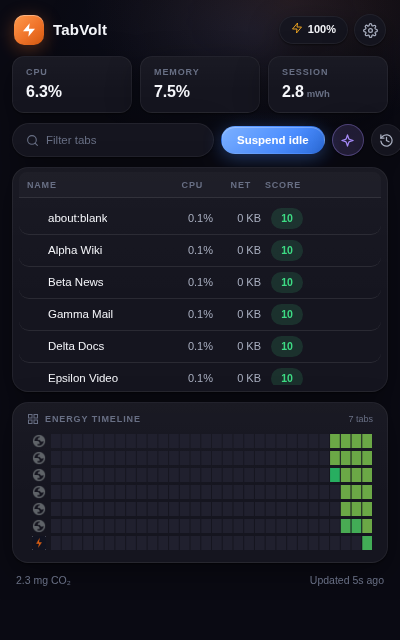
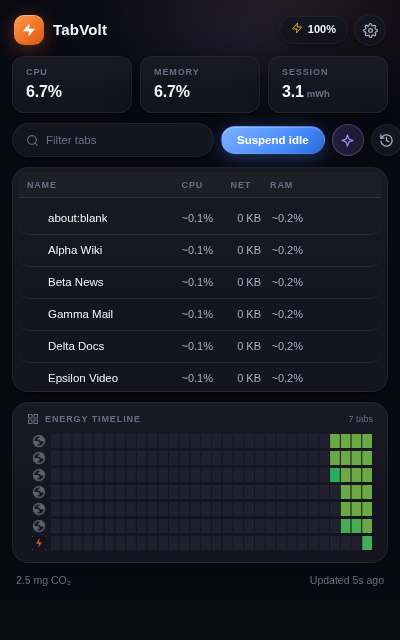
Replace the Score column with per-tab RAM%; be upfront these are estimates
Score swap:
The energy score keeps driving everything it always did under the hood
(Suspend Idle's target, the heatmap, AI candidate ranking, the preemptive
flag) - it's just no longer its own visible column. In its place, a RAM%
column mirrors the existing CPU% column.

New computeMemoryWeight() (energyscore.js, pure + unit tested) deliberately
uses different signals than the CPU weight - media buffers (audible),
in-flight assets (loading, network bytes), a small active-tab bonus, and
no idle decay (a backgrounded-but-live tab doesn't free memory just by
sitting there) - so the RAM column doesn't just move in lockstep with CPU
and tell you nothing new. Distributed from system.memory's real
system-wide percentage the same way CPU is distributed from system-wide
CPU%, using a named, adjustable assumption for the browser's rough share
of each (BROWSER_MEM_SHARE_ASSUMPTION). Also deleted `load_share`, found
to be mathematically identical to the existing `browser_cpu_share` field
- dead duplication from before this change.

Accuracy framing:
Chrome Stable extensions have no API for real per-tab CPU or memory - only
Dev/Canary's chrome.processes provides that, which breaks Stable-channel
installs (this project's own Phase 1 log already hit that wall). So CPU
and RAM now carry a permanent "~" marker (not just a hover tooltip) marking
them as relative estimates, column headers spell out why, and a new
README section explains the platform limitation plainly - including why
[…]

diff --git a/background.js b/background.js
@@ -14,7 +14,8 @@
 
 import {
     computeEnergyScore, getScoreTier, getTierColor,
-    estimateMwh, estimateCO2g, getAdaptiveInterval, isRestrictedUrl
+    estimateMwh, estimateCO2g, getAdaptiveInterval, isRestrictedUrl,
+    computeMemoryWeight, BROWSER_MEM_SHARE_ASSUMPTION
 } from './energyscore.js';
 
 import {
@@ -338,20 +339,32 @@ async function runPollCycle() {
         const batteryPct = battery ? battery.pct : null;
         const isCharging = battery ? battery.charging : null;
 
-        // ---- Heuristic per-tab CPU weights ----
+        // ---- Heuristic per-tab CPU and memory weights (single pass) ----
+        // Two independent weight formulas on purpose — memory uses different
+        // signals (media/loading/network, no idle decay) so the RAM column
+        // isn't just a rescaled copy of the CPU column.
         const browserCpuEst = systemCpuPct * 0.6;
+        const browserMemEst = memoryPct * BROWSER_MEM_SHARE_ASSUMPTION;
         const tabWeights = new Map();
+        const memWeights = new Map();
         let totalWeight = 0;
+        let totalMemWeight = 0;
         for (const tab of tabs) {
-            if (tab.discarded) { tabWeights.set(tab.id, 0); continue; }
+            if (tab.discarded) { tabWeights.set(tab.id, 0); memWeights.set(tab.id, 0); continue; }
+            const isLoading = tab.status === 'loading';
+            const netKB = (networkBytes.get(tab.id) || 0) / 1024;
+
             let w = 1;
             if (tab.active) w += 30;
             if (tab.audible) w += 20;
-            if (tab.status === 'loading') w += 15;
-            const netKB = (networkBytes.get(tab.id) || 0) / 1024;
+            if (isLoading) w += 15;
             w += Math.min(netKB / 5, 15);
             tabWeights.set(tab.id, w);
             totalWeight += w;
+
+            const mw = computeMemoryWeight(tab.audible, isLoading, netKB, tab.active);
+            memWeights.set(tab.id, mw);
+            totalMemWeight += mw;
         }
 
         // ---- Per-tab payloads + aggregation (single pass) ----
@@ -359,6 +372,8 @@ async function runPollCycle() {
         for (const tab of tabs) {
             const weight = tabWeights.get(tab.id) || 0;
             const tabCpuPct = totalWeight > 0 ? (weight / totalWeight) * browserCpuEst : 0;
+            const memWeight = memWeights.get(tab.id) || 0;
+            const tabRamPct = (!tab.discarded && totalMemWeight > 0) ? (memWeight / totalMemWeight) * browserMemEst : 0;
             const idleMins = (now - (tab.lastAccessed ?? now)) / 60000;
             const kbThisCycle = (networkBytes.get(tab.id) ?? 0) / 1024;
             networkBytes.delete(tab.id);
@@ -387,6 +402,7 @@ async function runPollCycle() {
                 url: tab.url || '', domain, favicon: tab.favIconUrl || '',
                 energyscore: Math.round(score),
                 cpu_pct: round1(tabCpuPct),
+                ram_pct: round1(tabRamPct),
                 kb_transferred: round2(kbThisCycle),
                 idle_mins: round2(idleMins),
                 is_background: isBackground, is_active: tab.active || false,
@@ -395,10 +411,13 @@ async function runPollCycle() {
                 tier, tierColor: getTierColor(tier), state,
                 audible: tab.audible || false,
                 pinned: tab.pinned || false,
-                // Honest relative shares — per-tab absolute RAM is not
-                // observable without the (Dev-channel-only) processes API.
+                // Both "share of system X" figures a tab is estimated to
+                // account for — neither is a real per-tab measurement.
+                // Chrome Stable doesn't expose that to extensions at all
+                // (see Context/Phase1_Iteration_Log.md); these are heuristic
+                // splits of a real system-wide total, not process readings.
                 browser_cpu_share: browserCpuEst > 0 ? round1((tabCpuPct / browserCpuEst) * 100) : 0,
-                load_share: totalWeight > 0 ? round1((weight / totalWeight) * 100) : 0,
+                browser_mem_share: totalMemWeight > 0 ? round1((memWeight / totalMemWeight) * 100) : 0,
                 is_protected: isTabProtected(tab.id, domain),
                 preemptive_flag: pattern?.preemptive_flag || false
             });

diff --git a/popup.js b/popup.js
@@ -5,11 +5,7 @@
 // when the sort outcome actually differs. No innerHTML wipes on the hot
 // path, so hover states, focus, and scroll position survive every refresh.
 
-import { getScoreTier, formatCO2Mass, isRestrictedUrl } from './energyscore.js';
-
-// Brightened tier colors for text-on-tint chips (the locked palette hexes
-// are tuned for solid fills and read too dark as text on dark surfaces).
-const TIER_TEXT_COLOR = { high: '#FF6E5E', mid: '#FFB020', low: '#3DDC84' };
+import { formatCO2Mass, isRestrictedUrl } from './energyscore.js';
 
 // ============================================================================
 // CONSTANTS + HELPERS
@@ -118,19 +114,15 @@ function createRow(t) {
     cpu.className = 'cell-num';
     const net = document.createElement('span');
     net.className = 'cell-num';
-
-    const scoreWrap = document.createElement('span');
-    scoreWrap.className = 'cell-score';
-    const score = document.createElement('span');
-    score.className = 'score-badge';
-    scoreWrap.appendChild(score);
+    const ram = document.createElement('span');
+    ram.className = 'cell-num';
 
     const actions = document.createElement('span');
     actions.className = 'cell-actions';
 
-    el.append(name, cpu, net, scoreWrap, actions);
+    el.append(name, cpu, net, ram, actions);
 
-    const row = { el, cells: { favicon, title, badges, cpu, net, score, actions }, prev: {} };
+    const row = { el, cells: { favicon, title, badges, cpu, net, ram, actions }, prev: {} };
     rowMap.set(t.tabId, row);
     return row;
 }
@@ -207,24 +199,19 @@ function updateRow(row, t) {
         prev.favicon = fav;
     }
 
+    // A leading "~" marks CPU/RAM as relative estimates, not real per-tab
+    // measurements — Chrome doesn't expose that to Stable-channel extensions
+    // (see the column headers' title text for the full explanation). Net is
+    // real per-tab byte-counted data, so it doesn't get the marker.
     const suspended = t.state === 'suspended';
-    const cpuText = suspended ? '—' : `${(t.cpu_pct ?? 0).toFixed(1)}%`;
+    const cpuText = suspended ? '—' : `~${(t.cpu_pct ?? 0).toFixed(1)}%`;
     if (prev.cpuText !== cpuText) { cells.cpu.textContent = cpuText; prev.cpuText = cpuText; }
 
     const netText = suspended ? '—' : formatKB(t.kb_transferred);
     if (prev.netText !== netText) { cells.net.textContent = netText; prev.netText = netText; }
 
-    const scoreText = String(Math.round(t.energyscore));
-    if (prev.scoreText !== scoreText) { cells.score.textContent = scoreText; prev.scoreText = scoreText; }
-    // Tinted chip: 14%-alpha background of the tier color, full color text.
-    const color = TIER_TEXT_COLOR[getScoreTier(t.energyscore)] || '#AAB0C0';
-    if (prev.scoreColor !== color) {
-        cells.score.style.background = color + '24';
-        cells.score.style.color = color;
-        prev.scoreColor = color;
-    }
-    const pre = t.preemptive_flag && !t.is_protected;
-    if (prev.scorePre !== pre) { cells.score.classList.toggle('preemptive', pre); prev.scorePre = pre; }
+    const ramText = suspended ? '—' : `~${(t.ram_pct ?? 0).toFixed(1)}%`;
+    if (prev.ramText !== ramText) { cells.ram.textContent = ramText; prev.ramText = ramText; }
 
     const sig = stateSig(t);
     if (prev.sig !== sig) {
@@ -415,7 +402,7 @@ function showTooltip(rowEl, tabId) {
 
     $('tt-title').textContent = t.title;
     $('tt-cpu').textContent = `${t.cpu_pct}% · ${t.browser_cpu_share}% of browser`;
-    $('tt-share').textContent = `${t.load_share ?? 0}%`;
+    $('tt-ram').textContent = `${t.ram_pct ?? 0}% · ${t.browser_mem_share ?? 0}% of browser`;
     $('tt-net').textContent = formatKB(t.kb_transferred);
     $('tt-idle').textContent = formatIdle(t.idle_mins);
 

diff --git a/popup.html b/popup.html
@@ -177,11 +177,13 @@
   <section id="list-card" class="card">
     <div id="list-header">
       <button class="col col-name sortable" data-sort="title">Name<span class="sort-arrow"></span></button>
-      <button class="col col-num sortable" data-sort="cpu_pct" title="Estimated share of system CPU">CPU<span
+      <button class="col col-num sortable" data-sort="cpu_pct"
+        title="Estimated share of system CPU — not a real per-tab measurement. Chrome doesn't expose that to extensions; this is a relative estimate.">CPU<span
           class="sort-arrow"></span></button>
       <button class="col col-num sortable" data-sort="kb_transferred" title="Network transferred last cycle">Net<span
           class="sort-arrow"></span></button>
-      <button class="col col-score sortable" data-sort="energyscore" title="Energy score">Score<span
+      <button class="col col-num sortable" data-sort="ram_pct"
+        title="Estimated share of system memory — not a real per-tab measurement. Chrome doesn't expose that to extensions; this is a relative estimate.">RAM<span
           class="sort-arrow"></span></button>
       <span class="col col-actions" aria-hidden="true"></span>
     </div>
@@ -206,7 +208,7 @@
     <div class="tooltip-title" id="tt-title"></div>
     <div class="tooltip-grid">
       <span class="tt-label">Est. CPU</span><span class="tt-val" id="tt-cpu">—</span>
-      <span class="tt-label">Load share</span><span class="tt-val" id="tt-share">—</span>
+      <span class="tt-label">Est. RAM</span><span class="tt-val" id="tt-ram">—</span>
       <span class="tt-label">Network</span><span class="tt-val" id="tt-net">—</span>
       <span class="tt-label">Idle</span><span class="tt-val" id="tt-idle">—</span>
     </div>

diff --git a/energyscore.js b/energyscore.js
@@ -74,6 +74,35 @@ export function getTierColor(tier) {
   }
 }
 
+// Rough assumption: on a typical machine the browser accounts for well
+// under half of total system memory pressure (OS + other apps take the
+// rest). Named and adjustable in one place, same spirit as the 0.6
+// "browser share of system CPU" assumption in background.js.
+export const BROWSER_MEM_SHARE_ASSUMPTION = 0.4;
+
+/**
+ * Heuristic per-tab "memory weight" — NOT a measurement. Chrome Stable
+ * extensions cannot read real per-tab memory; that requires the
+ * Dev/Canary-only `chrome.processes` API (the same restriction that ruled
+ * out real per-tab CPU — see Context/Phase1_Iteration_Log.md).
+ *
+ * Deliberately uses different signals than the CPU weight so the two
+ * columns aren't just redundant copies of each other: media buffers
+ * (audible), in-flight page assets (loading, network bytes transferred),
+ * and a small bonus for the active tab (less likely to have been trimmed
+ * by Chrome's own memory management). Idle time is deliberately NOT a
+ * factor here — an idle-but-still-live tab doesn't free its memory just
+ * by sitting in the background the way it drains down its CPU/energy score.
+ */
+export function computeMemoryWeight(is_audible, is_loading, kb_per_cycle, is_active) {
+  let w = 1;
+  if (is_audible) w += 15;
+  if (is_loading) w += 10;
+  w += Math.min(kb_per_cycle / 4, 25);
+  if (is_active) w += 5;
+  return w;
+}
+
 /**
  * Estimate milliwatt-hours consumed by a tab over one poll cycle.
  * Formula: (cpu_pct/100) × tdp_watts × (elapsed_seconds/3600) × 1000

diff --git a/popup.css b/popup.css
@@ -878,26 +878,6 @@ button {
   padding: 0 2px;
 }
 
-.cell-score {
-  display: flex;
-  justify-content: flex-end;
-  padding: 0 2px;
-}
-
-.score-badge {
-  min-width: 32px;
-  text-align: center;
-  padding: 2.5px 7px;
-  border-radius: var(--radius-pill);
-  font-size: 10.5px;
-  font-weight: 800;
-  font-variant-numeric: tabular-nums;
-}
-
-.score-badge.preemptive {
-  box-shadow: 0 0 0 1px var(--warn);
-}
-
 .cell-actions {
   display: flex;
   justify-content: flex-end;

diff --git a/README.md b/README.md
@@ -9,7 +9,7 @@
 ## ✨ Features
 
 - **Per-tab energy scoring** — a normalized 0–100 Energy Score for every open tab, weighted across estimated CPU share (55%), network activity (20%), idle time (15%), and background state (10%).
-- **Task-manager UI** — a sortable, searchable live table of every tab (CPU / network / score columns), updated in place with zero flicker, with per-row actions: suspend, pause animations, protect.
+- **Task-manager UI** — a sortable, searchable live table of every tab (CPU / network / RAM columns), updated in place with zero flicker, with per-row actions: suspend, pause animations, protect. CPU and RAM are clearly marked (`~`) as relative estimates, not exact measurements — see **Accuracy** below for why. The composite energy score keeps driving Suspend Idle, the heatmap, and AI ranking behind the scenes even though it's no longer its own column.
 - **Real battery awareness** — battery level and charging state are read via an offscreen document (the Battery Status API isn't available to MV3 service workers) and drive:
   - **Adaptive polling** — 5 s when plugged in, degrading to 20 s on critical battery, so TabVolt never becomes the drain it measures.
   - **Energy Budget mode** — "keep my battery above 30% until 18:00"; TabVolt projects your drain rate and suspends the worst offenders when you're off track.
@@ -82,6 +82,31 @@ or just run `start_companion.bat`, which builds automatically if [Go](https://go
 ### Privacy
 
 All monitoring data (tab titles, URLs, per-tab metrics) stays in your browser's IndexedDB and is pruned automatically. Nothing leaves your machine unless you enable AI suggestions, in which case the titles of suspendable background tabs are sent to Groq with your own API key.
+
+## 🎯 Accuracy — why the numbers are estimates
+
+Chrome Stable-channel extensions have no API for real per-tab CPU or memory —
+that data (`chrome.processes`) is restricted to the Dev/Canary channels and
+breaks installation on Stable (this project's own [Phase 1 log](Context/Phase1_Iteration_Log.md)
+hit that wall early on). So every per-tab number in the popup is a heuristic
+split of a real system-wide total, not a process reading:
+
+- **System-wide CPU%** and **system-wide memory%** (`chrome.system.cpu` /
+  `chrome.system.memory`) are real, measured values.
+- Each tab's **share** of those totals is estimated from its activity —
+  active/audible/loading state and network bytes transferred — using two
+  *different* weighting formulas for CPU vs. RAM (`energyscore.js`), so the
+  two columns don't just move in lockstep and tell you nothing new.
+- The `~` prefix on the CPU and RAM columns is a permanent reminder of this,
+  not just a hover tooltip.
+
+This also means TabVolt's numbers won't track Task Manager's tick-by-tick —
+partly because per-tab attribution is inherently approximate, and partly
+because polling is deliberately adaptive (5–20 s depending on battery/CPU/
+charging) rather than Task Manager's ~1 s cadence, so an energy-monitoring
+tool doesn't itself become a meaningful drain. The **Net** column is the
+exception: it's real per-tab byte-counted data from `chrome.webRequest`, not
+a heuristic split, which is why it doesn't carry the `~` marker.
 
 ## 🤝 Contribution
 
